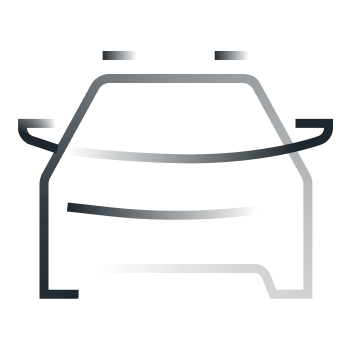
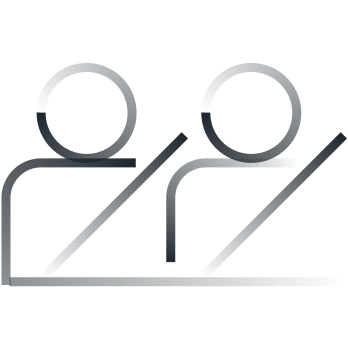
fixes

Changed region(s): [[0.0, 0.1437, 1.0, 0.8621]]

diff --git a/frontend/src/pages/spb.tsx b/frontend/src/pages/spb.tsx
@@ -1,5 +1,6 @@
 import React, { useState, useCallback, useRef } from 'react';
 import { Link } from 'gatsby';
+import { isMobile } from 'react-device-detect';
 
 import { useClassnames } from '../hooks/use-classnames';
 import useDocumentScrollThrottled from '../components/nav/use-document-scroll-throttled';
@@ -28,7 +29,6 @@ const PmefLandingPage = () => {
     const [respondFormVisible, setRespondFormVisible] = useState(false);
     const [registrationFormVisible, setRegistrationFormVisible] = useState(false);
     const [play, setPlay] = useState<boolean>(false);
-    const videoLink = '/krest_compressed.mp4';
 
     const TIMEOUT_DELAY = 0;
     const MINIMUM_SCROLL = 5;
@@ -36,8 +36,8 @@ const PmefLandingPage = () => {
     const icons = [
         { icon: <Flag />, iconName: '/flag.png', label: 'Бесплатно' },
         { icon: <Lent />, iconName: '/lent.png', label: 'Пристегнуть ремни' },
-        { icon: <OutPhoto />, iconName: '/out-photo.png', label: 'Два пассажира' },
         { icon: <NoAlk />, iconName: '/no-alk.png', label: 'Без еды и напитков' },
+        { icon: <OutPhoto />, iconName: '/out-photo.png', label: 'Два пассажира на борту' },
         { icon: <NoPet />, iconName: '/no-pet.png', label: 'Без питомцев' },
         { icon: <NoSmok />, iconName: '/no-smok.png', label: 'Не курить' }
     ];
@@ -134,7 +134,6 @@ const PmefLandingPage = () => {
                             icons?.map(({ iconName, label }, i) => {
                                 return (
                                     <div className={cn('pmef-landing-page__icon-block')} key={i}>
-                                        {/* {icon} */}
                                         <img className={cn('pmef-landing-page__icon')} src={iconName} />
                                         <label className={cn('pmef-landing-page__icon-label')}>
                                             {label}
@@ -166,8 +165,9 @@ const PmefLandingPage = () => {
                         <PlayButton className={cn('pmef-landing-page__play-button', { 'pmef-landing-page__play-button_hidden': play })} />
                         <video
                             className={cn('pmef-landing-page__video')}
-                            src={videoLink}
+                            src={isMobile ? '/spb_mobile.mp4' : '/spb.mp4'}
                             loop={true}
+                            poster="/spb_back.jpg"
                             ref={videoRef}
                         >
                         </video>

diff --git a/frontend/src/pages/pmef-landing-page.css b/frontend/src/pages/pmef-landing-page.css
@@ -13,6 +13,7 @@
         z-index: -1;
         left: 0;
         top: 0;
+        background: black;
         background-image: url('/map 1280.png');
         background-position: center;
         background-repeat: no-repeat;
@@ -308,7 +309,7 @@
     }
 
     &__icon {
-        height: 80px;
+        height: 110px;
     }
 
     &__icon-label {